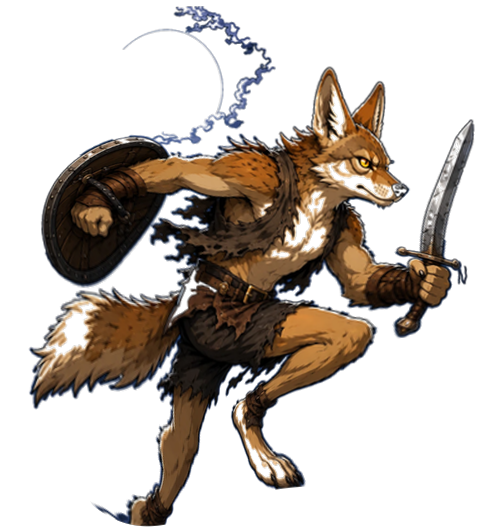
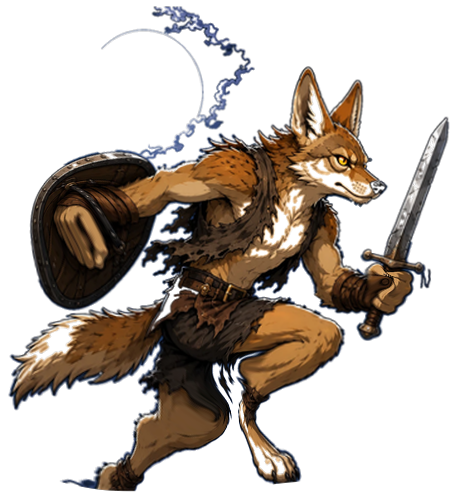
Give the running animation a bigger, clearer leg swing
Rig each leg as hip+knee+foot (instead of a single rigid segment) so
the stride can swing much further forward and back without warping
artifacts, making the running motion read as legs clearly moving back
and forth rather than a subtle wobble.

diff --git a/public/index.html b/public/index.html
@@ -242,7 +242,7 @@ addChar(Object.assign({
   fur:'#2b2438', furDark:'#1a1624', belly:'#4a4460', eye:'#7bd389',
   blurb:'Silent hunter · deadly claws',
   sprite:{body:'img/shade_body.png', weapon:'img/shade_weapon.png', pivot:[205,222], weaponPivot:[32,32],
-    runFrames:{files:['img/shade_run_f0.png','img/shade_run_f1.png','img/shade_run_f2.png','img/shade_run_f3.png','img/shade_run_f4.png','img/shade_run_f5.png','img/shade_run_f6.png','img/shade_run_f7.png','img/shade_run_f8.png','img/shade_run_f9.png'], groundY:489, w:479, h:505}}
+    runFrames:{files:['img/shade_run_f0.png','img/shade_run_f1.png','img/shade_run_f2.png','img/shade_run_f3.png','img/shade_run_f4.png','img/shade_run_f5.png','img/shade_run_f6.png','img/shade_run_f7.png','img/shade_run_f8.png','img/shade_run_f9.png'], groundY:481, w:461, h:481}}
 }, makeAttacks('War Claws')));
 
 addChar(Object.assign({
@@ -251,7 +251,7 @@ addChar(Object.assign({
   fur:'#8a7a5c', furDark:'#5c4f38', belly:'#c7b98f', eye:'#ff2e2e',
   blurb:'Scarred and vicious · never backs down',
   sprite:{body:'img/gnash_body.png', weapon:'img/gnash_weapon.png', pivot:[68,128], weaponPivot:[32,32],
-    runFrames:{files:['img/gnash_run_f0.png','img/gnash_run_f1.png','img/gnash_run_f2.png','img/gnash_run_f3.png','img/gnash_run_f4.png','img/gnash_run_f5.png','img/gnash_run_f6.png','img/gnash_run_f7.png','img/gnash_run_f8.png','img/gnash_run_f9.png'], groundY:486, w:533, h:515}}
+    runFrames:{files:['img/gnash_run_f0.png','img/gnash_run_f1.png','img/gnash_run_f2.png','img/gnash_run_f3.png','img/gnash_run_f4.png','img/gnash_run_f5.png','img/gnash_run_f6.png','img/gnash_run_f7.png','img/gnash_run_f8.png','img/gnash_run_f9.png'], groundY:482, w:515, h:488}}
 }, makeAttacks('Katana')));
 
 addChar(Object.assign({
@@ -260,7 +260,7 @@ addChar(Object.assign({
   fur:'#b9863f', furDark:'#7d5c2a', belly:'#e6d3a0', eye:'#ffa726',
   blurb:'Moonlit raider · unbreakable guard',
   sprite:{body:'img/howler_body.png', weapon:'img/howler_weapon.png', pivot:[112,158], weaponPivot:[104,87],
-    runFrames:{files:['img/howler_run_f0.png','img/howler_run_f1.png','img/howler_run_f2.png','img/howler_run_f3.png','img/howler_run_f4.png','img/howler_run_f5.png','img/howler_run_f6.png','img/howler_run_f7.png','img/howler_run_f8.png','img/howler_run_f9.png'], groundY:492, w:480, h:532}}
+    runFrames:{files:['img/howler_run_f0.png','img/howler_run_f1.png','img/howler_run_f2.png','img/howler_run_f3.png','img/howler_run_f4.png','img/howler_run_f5.png','img/howler_run_f6.png','img/howler_run_f7.png','img/howler_run_f8.png','img/howler_run_f9.png'], groundY:489, w:455, h:497}}
 }, makeAttacks('Sword & Shield')));
 
 function allIds(){ return Object.keys(CHARS); }
